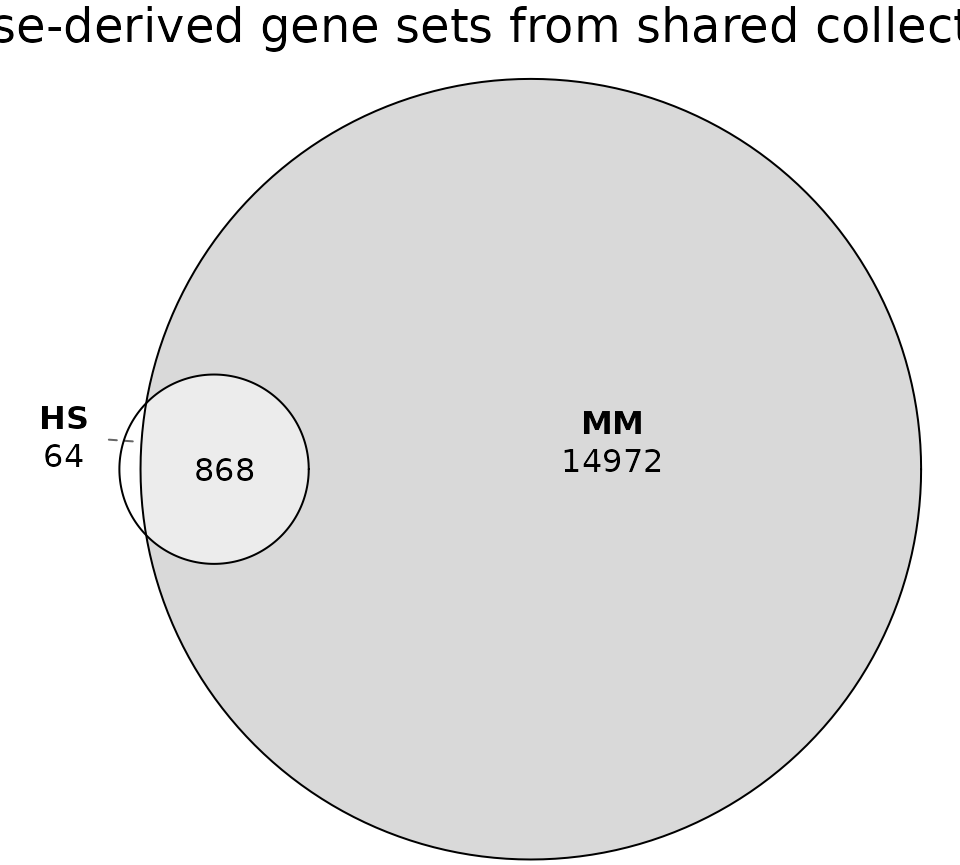
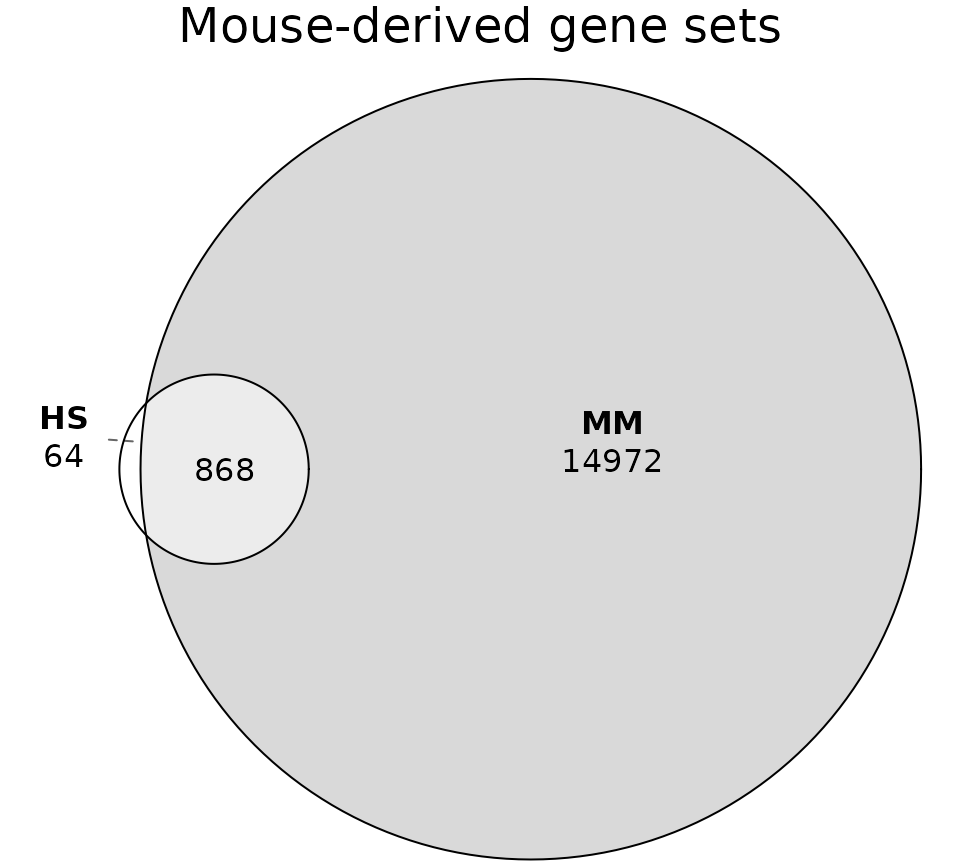
Deploying to gh-pages from @ igordot/msigdbr@46830f955e653acbb2e21f08ae5004d1853a6ce0 🚀

Changed region(s): [[0.0, 0.0, 1.0, 0.0624]]

diff --git a/articles/hs-mm.html b/articles/hs-mm.html
@@ -356,7 +356,7 @@ the gene set level.</p>
 <code class="sourceCode R"><span><span class="fu">plot_overlap</span><span class="op">(</span></span>
 <span>  <span class="va">genesets_hs</span><span class="op">$</span><span class="va">gs_name</span>,</span>
 <span>  <span class="va">genesets_mm</span><span class="op">$</span><span class="va">gs_name</span>,</span>
-<span>  <span class="st">"Gene sets from shared collections"</span></span>
+<span>  <span class="st">"Shared collections gene sets"</span></span>
 <span><span class="op">)</span></span></code></pre></div>
 <p><img src="hs-mm_files/figure-html/plot-overlap-gs-all-1.png" class="r-plt" alt="" width="60%" style="display: block; margin: auto;"></p>
 <p>As would be expected, there is substantial overlap between the two
@@ -366,7 +366,7 @@ databases, but there are unique gene sets in each.</p>
 <code class="sourceCode R"><span><span class="fu">plot_overlap</span><span class="op">(</span></span>
 <span>  <span class="fu"><a href="https://dplyr.tidyverse.org/reference/filter.html" class="external-link">filter</a></span><span class="op">(</span><span class="va">genesets_hs</span>, <span class="va">gs_source_species</span> <span class="op">==</span> <span class="st">"MM"</span><span class="op">)</span><span class="op">$</span><span class="va">gs_name</span>,</span>
 <span>  <span class="fu"><a href="https://dplyr.tidyverse.org/reference/filter.html" class="external-link">filter</a></span><span class="op">(</span><span class="va">genesets_mm</span>, <span class="va">gs_source_species</span> <span class="op">==</span> <span class="st">"MM"</span><span class="op">)</span><span class="op">$</span><span class="va">gs_name</span>,</span>
-<span>  <span class="st">"Mouse-derived gene sets from shared collections"</span></span>
+<span>  <span class="st">"Mouse-derived gene sets"</span></span>
 <span><span class="op">)</span></span></code></pre></div>
 <p><img src="hs-mm_files/figure-html/plot-overlap-gs-all-mm-1.png" class="r-plt" alt="" width="60%" style="display: block; margin: auto;"></p>
 <p><strong>Most of the mouse-derived gene sets in the human database are
@@ -433,7 +433,7 @@ The overall overlap is not very high.</p>
 <code class="sourceCode R"><span><span class="fu">plot_overlap</span><span class="op">(</span></span>
 <span>  <span class="fu"><a href="https://dplyr.tidyverse.org/reference/filter.html" class="external-link">filter</a></span><span class="op">(</span><span class="va">genesets_hs</span>, <span class="va">gs_collection_name</span> <span class="op">==</span> <span class="st">"Chemical and Genetic Perturbations"</span><span class="op">)</span><span class="op">$</span><span class="va">gs_name</span>,</span>
 <span>  <span class="fu"><a href="https://dplyr.tidyverse.org/reference/filter.html" class="external-link">filter</a></span><span class="op">(</span><span class="va">genesets_mm</span>, <span class="va">gs_collection_name</span> <span class="op">==</span> <span class="st">"Chemical and Genetic Perturbations"</span><span class="op">)</span><span class="op">$</span><span class="va">gs_name</span>,</span>
-<span>  <span class="st">"Chemical and Genetic Perturbation gene sets"</span></span>
+<span>  <span class="st">"CGP gene sets"</span></span>
 <span><span class="op">)</span></span></code></pre></div>
 <p><img src="hs-mm_files/figure-html/plot-overlap-gs-cgp-1.png" class="r-plt" alt="" width="60%" style="display: block; margin: auto;"></p>
 <p>The overlap looks very different when we split the human gene sets by
@@ -451,7 +451,7 @@ source species.</p>
 <span>    <span class="fu"><a href="https://rdrr.io/r/base/c.html" class="external-link">c</a></span><span class="op">(</span><span class="va">genesets_hs_cgp</span>, <span class="va">genesets_mm_cgp</span><span class="op">)</span></span>
 <span>  <span class="op">)</span>,</span>
 <span>  quantities <span class="op">=</span> <span class="cn">TRUE</span>,</span>
-<span>  main <span class="op">=</span> <span class="st">"Chemical and Genetic Perturbation gene sets"</span></span>
+<span>  main <span class="op">=</span> <span class="st">"CGP gene sets (split by source)"</span></span>
 <span><span class="op">)</span></span></code></pre></div>
 <p><img src="hs-mm_files/figure-html/plot-overlap-gs-cgp-split-1.png" class="r-plt" alt="" width="60%" style="display: block; margin: auto;"></p>
 <p>Most of the overlap can be explained by the mouse-derived gene sets.
@@ -540,7 +540,7 @@ database.</p>
 <code class="sourceCode R"><span><span class="fu">plot_overlap</span><span class="op">(</span></span>
 <span>  <span class="va">hs_cgp</span><span class="op">$</span><span class="va">gs_name_gene</span>,</span>
 <span>  <span class="va">mm_cgp</span><span class="op">$</span><span class="va">gs_name_gene</span>,</span>
-<span>  <span class="st">"Chemical and Genetic Perturbations collection genes"</span></span>
+<span>  <span class="st">"CGP collection genes"</span></span>
 <span><span class="op">)</span></span></code></pre></div>
 <p><img src="hs-mm_files/figure-html/plot-overlap-ge-genes-cgp-1.png" class="r-plt" alt="" width="60%" style="display: block; margin: auto;"></p>
 </div>

diff --git a/articles/hs-mm.md b/articles/hs-mm.md
@@ -376,7 +376,7 @@ gene set level.
 plot_overlap(
   genesets_hs$gs_name,
   genesets_mm$gs_name,
-  "Gene sets from shared collections"
+  "Shared collections gene sets"
 )
 ```
 
@@ -392,7 +392,7 @@ The overlap is much higher for mouse-derived gene sets.
 plot_overlap(
   filter(genesets_hs, gs_source_species == "MM")$gs_name,
   filter(genesets_mm, gs_source_species == "MM")$gs_name,
-  "Mouse-derived gene sets from shared collections"
+  "Mouse-derived gene sets"
 )
 ```
 
@@ -479,7 +479,7 @@ The overall overlap is not very high.
 plot_overlap(
   filter(genesets_hs, gs_collection_name == "Chemical and Genetic Perturbations")$gs_name,
   filter(genesets_mm, gs_collection_name == "Chemical and Genetic Perturbations")$gs_name,
-  "Chemical and Genetic Perturbation gene sets"
+  "CGP gene sets"
 )
 ```
 
@@ -502,7 +502,7 @@ plot(
     c(genesets_hs_cgp, genesets_mm_cgp)
   ),
   quantities = TRUE,
-  main = "Chemical and Genetic Perturbation gene sets"
+  main = "CGP gene sets (split by source)"
 )
 ```
 
@@ -629,7 +629,7 @@ length(setdiff(mm_cgp$gs_name_gene, hs_cgp$gs_name_gene)) / n_distinct(mm_cgp$gs
 plot_overlap(
   hs_cgp$gs_name_gene,
   mm_cgp$gs_name_gene,
-  "Chemical and Genetic Perturbations collection genes"
+  "CGP collection genes"
 )
 ```
 
